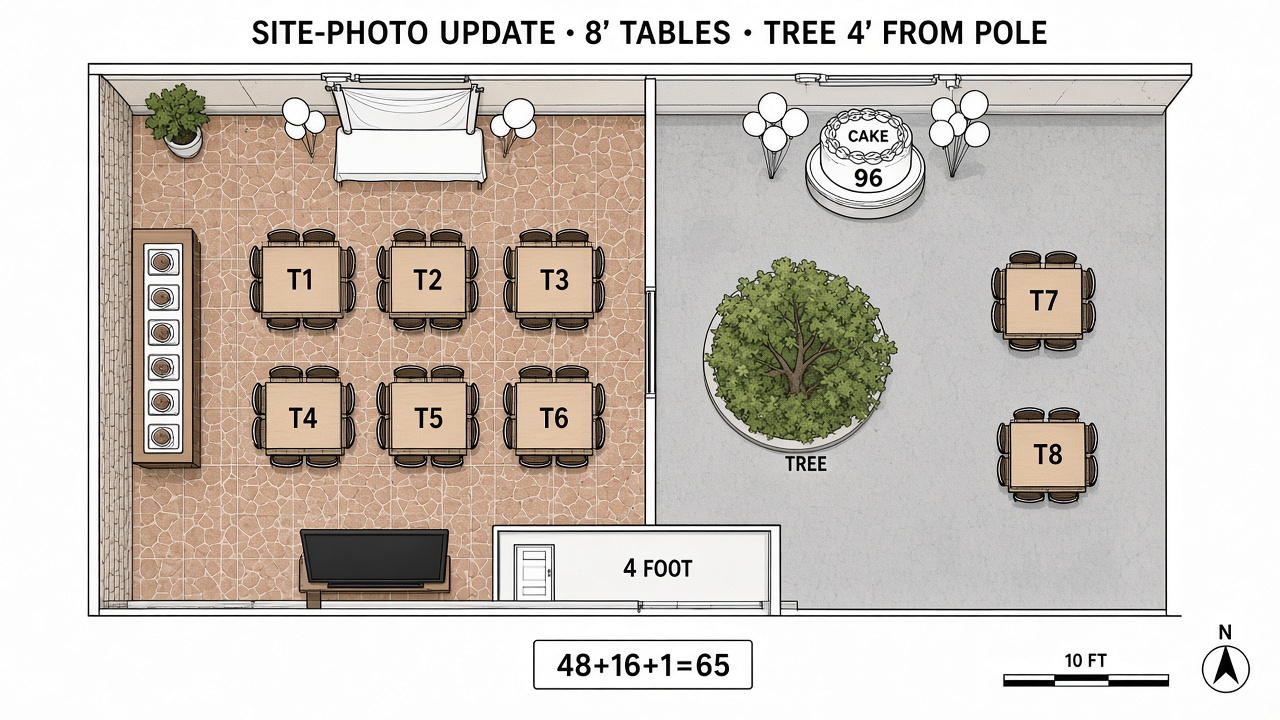
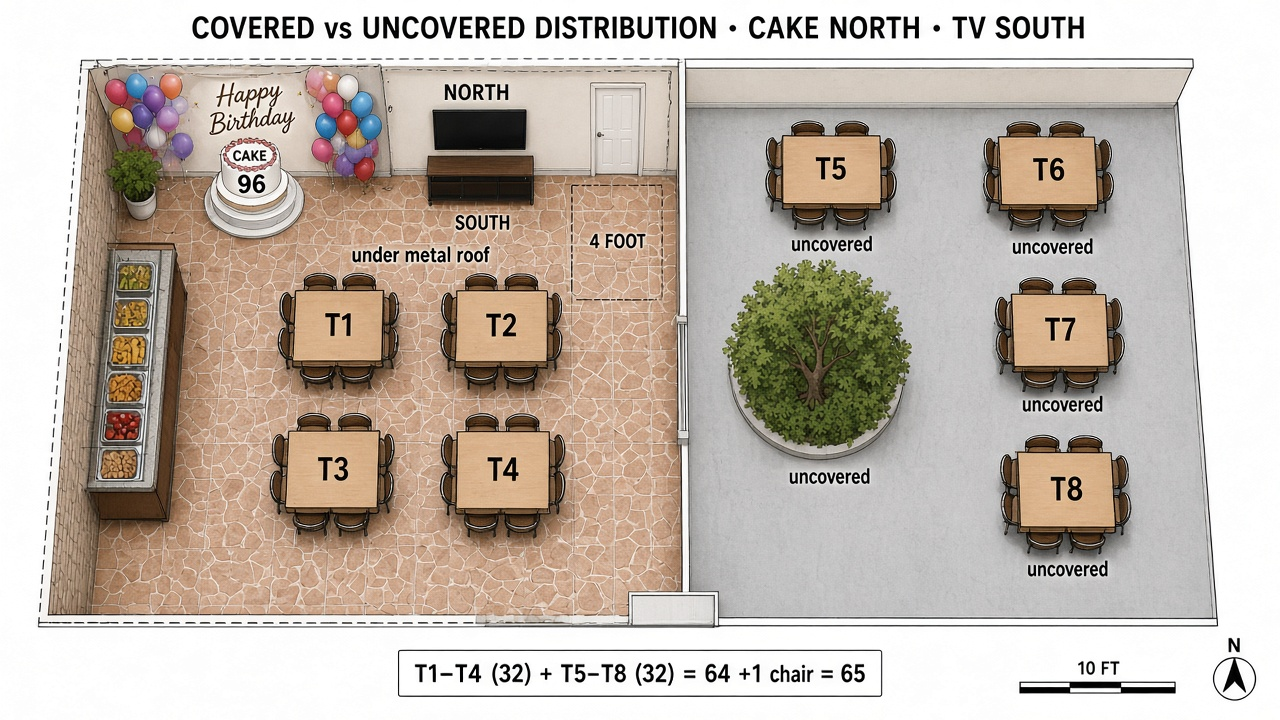
Distribute tables under roof and on gray for mobility
Keep brown seating fully under the metal roof with cake at
north and TV/bath at south facing the cake; move half the
8ft tables onto gray around the tree for clearer aisles.

diff --git a/birthday-party-plan/index.html b/birthday-party-plan/index.html
@@ -3,7 +3,7 @@
 <head>
   <meta charset="UTF-8" />
   <meta name="viewport" content="width=device-width, initial-scale=1" />
-  <title>Grandma’s 96th — Updated Site Layout</title>
+  <title>Grandma’s 96th — Covered + Uncovered Tables</title>
   <link rel="preconnect" href="https://fonts.googleapis.com" />
   <link rel="preconnect" href="https://fonts.gstatic.com" crossorigin />
   <link href="https://fonts.googleapis.com/css2?family=Cormorant+Garamond:ital,wght@0,500;0,600;1,500&family=Outfit:wght@300;400;500;600&display=swap" rel="stylesheet" />
@@ -26,7 +26,7 @@
     .eyebrow { font-size: 0.72rem; letter-spacing: 0.16em; text-transform: uppercase; color: var(--sage-deep); font-weight: 500; margin-bottom: 0.4rem; }
     h1 { font-family: "Cormorant Garamond", Georgia, serif; font-weight: 600; font-size: clamp(1.85rem, 3.5vw, 2.5rem); }
     h1 em { font-style: italic; color: var(--sage-deep); font-weight: 500; }
-    .lede { max-width: 46rem; margin-top: 0.65rem; color: var(--muted); font-weight: 300; font-size: 1.02rem; }
+    .lede { max-width: 48rem; margin-top: 0.65rem; color: var(--muted); font-weight: 300; font-size: 1.02rem; }
     .meta { display: flex; flex-wrap: wrap; gap: 0.45rem; margin-top: 1rem; }
     .chip { border: 1px solid var(--line); background: rgba(255,250,243,0.8); padding: 0.3rem 0.65rem; font-size: 0.75rem; }
     .chip strong { color: var(--sage-deep); }
@@ -35,8 +35,7 @@
     .plan-card img { width: 100%; display: block; }
     .caption { padding: 0.75rem 1rem; font-size: 0.82rem; color: var(--muted); border-top: 1px solid var(--line); }
     .grid-2 { display: grid; grid-template-columns: 1fr 1fr; gap: 1.1rem; }
-    .grid-3 { display: grid; grid-template-columns: repeat(3, 1fr); gap: 0.75rem; }
-    @media (max-width: 800px) { .grid-2, .grid-3 { grid-template-columns: 1fr; } }
+    @media (max-width: 800px) { .grid-2 { grid-template-columns: 1fr; } }
     section.panel { background: rgba(255,250,243,0.78); border: 1px solid var(--line); padding: 1.15rem 1.25rem; }
     section.panel h2 { font-family: "Cormorant Garamond", Georgia, serif; font-size: 1.35rem; margin-bottom: 0.45rem; }
     section.panel li { color: var(--muted); font-size: 0.9rem; }
@@ -48,71 +47,56 @@
 </head>
 <body>
   <header>
-    <p class="eyebrow">Updated from your new site photos</p>
-    <h1>Reconfigured layout for <em>65</em></h1>
+    <p class="eyebrow">Cake north · TV south · tables under roof + on gray</p>
+    <h1>Distributed seating for <em>mobility</em></h1>
     <p class="lede">
-      Pole on the roof edge, tree ~<strong>4 ft right</strong> on gray (outside roof),
-      <strong>8′ rectangular</strong> family tables, décor and buffet reset to match the real patio.
+      Brown tables stay <strong>under the metal roof</strong>. Cake/backdrop at the
+      <strong>north</strong> roof end; TV (facing the cake) and bathroom at the <strong>south</strong>.
+      Half the tables move to <strong>uncovered gray</strong> so aisles stay open.
     </p>
     <div class="meta">
-      <span class="chip"><strong>Tree</strong> outside roof</span>
-      <span class="chip"><strong>8×</strong> 8′ tables</span>
-      <span class="chip"><strong>65</strong> seats</span>
-      <span class="chip"><strong>8-tray</strong> buffet</span>
+      <span class="chip"><strong>North</strong> cake</span>
+      <span class="chip"><strong>South</strong> TV → cake</span>
+      <span class="chip"><strong>32</strong> covered · <strong>32</strong> uncovered</span>
+      <span class="chip"><strong>65</strong> total</span>
     </div>
   </header>
 
   <main>
     <div class="plan-card">
-      <img src="./assets/patio-floor-plan-65.png" alt="Updated floor plan from site photos" />
-      <p class="caption">Floor plan — brown under roof · pole · 4 ft · tree on gray · T1–T6 + T7–T8 = 65 with +1 chair.</p>
+      <img src="./assets/patio-floor-plan-65.png" alt="Floor plan with covered and uncovered table distribution" />
+      <p class="caption">T1–T4 under roof on brown · T5–T8 on gray · cake north · TV south facing cake · tree 4 ft right of pole.</p>
     </div>
 
     <div class="plan-card">
-      <img src="./assets/patio-party-spatial-render.png" alt="Updated spatial render with décor and rectangular tables" />
-      <p class="caption">Wide render — décor on cake wall, buffet on stone wall, banquets under roof, tree past the pole on gray.</p>
-    </div>
-
-    <div class="grid-3">
-      <div class="plan-card">
-        <img src="./assets/site-refs/59EEDD33-D820-4243-8DCC-A39ADBFC1634_L0_001.jpg" alt="Site ref pole and tree" />
-        <p class="caption">Site: pole at roof edge, tree outside.</p>
-      </div>
-      <div class="plan-card">
-        <img src="./assets/site-refs/8F697071-3158-463E-AD93-7001DEA665C4_L0_001.jpg" alt="Site ref tree on gray" />
-        <p class="caption">Site: tree on gray, ~4 ft from pole.</p>
-      </div>
-      <div class="plan-card">
-        <img src="./assets/site-refs/67D3B48D-831D-4287-89EB-038CD1A93551_L0_001.jpg" alt="Site ref covered patio" />
-        <p class="caption">Site: covered brown patio volume.</p>
-      </div>
+      <img src="./assets/patio-party-spatial-render.png" alt="Render with tables under roof and on gray" />
+      <p class="caption">Covered banquets under the metal roof; gray courtyard seating past the pole and tree.</p>
     </div>
 
     <div class="grid-2">
       <section class="panel">
-        <h2>What was reconfigured</h2>
+        <h2>Under the roof (brown)</h2>
         <ul>
-          <li>Landmarks locked from your new photos</li>
-          <li>Rectangular 8′ tables for the long covered strip</li>
-          <li>Décor + buffet reset on cake wall and stone wall</li>
-          <li>Gray courtyard seating clear of the tree</li>
+          <li>T1–T4 only — all fully under metal roof</li>
+          <li>Wide aisle north↔south for cake photos + bath access</li>
+          <li>Buffet on stone wall</li>
+          <li>32 seats</li>
         </ul>
-        <a class="btn" href="./SETUP.md">Setup checklist →</a>
       </section>
       <section class="panel">
-        <h2>Seat count</h2>
+        <h2>Uncovered (gray)</h2>
         <ul>
-          <li>T1–T6 on brown → <strong>48</strong></li>
-          <li>T7–T8 on gray → <strong>16</strong></li>
-          <li>+1 chair → <strong>65</strong></li>
-          <li>Bathroom 4′ clear at TV wall</li>
+          <li>T5–T8 spread around the fixed tree</li>
+          <li>Improves mobility vs packing six tables under roof</li>
+          <li>32 seats + 1 extra chair elsewhere = 65</li>
         </ul>
+        <a class="btn" href="./SETUP.md">Setup checklist →</a>
       </section>
     </div>
   </main>
 
   <footer>
-    Measure the pole-to-tree gap and brown width on site before final rentals.
+    Confirm north = cake wall and south = TV/bath on site before placing tables.
   </footer>
 </body>
 </html>

diff --git a/birthday-party-plan/README.md b/birthday-party-plan/README.md
@@ -1,35 +1,29 @@
-# Grandma’s 96th — Updated from site photos
+# Grandma’s 96th — Covered + uncovered distribution
 
-Layout rebuilt from your new patio photos (pole, tree, brown/gray, walls).
+## Roof axis (brown only)
+| End | What’s there |
+|-----|----------------|
+| **NORTH** (under metal roof) | Cake + backdrop + photo clear |
+| **SOUTH** (under metal roof) | TV facing north toward cake · bathroom beside TV · 4′ clear |
 
-## Fixed landmarks
-| Landmark | Position |
-|----------|----------|
-| **Support pole** | On the roof edge (brown / gray line) |
-| **Tree** | Gray only, **outside roof**, ~**4 ft right** of the pole |
-| **Brown tiles** | Under the corrugated roof (stone/brick wall side) |
-| **Gray tiles** | Open courtyard past the pole (full area shown) |
-| **Cake wall** | Backdrop + cake (photo clear) |
-| **TV wall** | Opposite cake; TV faces cake; bathroom beside TV (4′ clear) |
+All **brown-tile tables sit fully under the metal roof**.
 
-## Tables (reconfigured)
-**8′ × 30″** rectangular banquet tables · 8 seats each · family seating (no honor table)
+## Table distribution (mobility)
+**8′ × 30″** rectangles · 8 seats · family seating
 
-| Zone | Tables | Seats |
-|------|--------|------:|
-| Brown under roof | T1–T6 (2 rows × 3) | 48 |
-| Gray (clear of tree) | T7–T8 | 16 |
-| Extra chair | — | 1 |
-| **Total** | **8** | **65** |
+| Zone | Tables | Seats | Why |
+|------|--------|------:|-----|
+| **Covered brown** | T1–T4 (2×2, wide aisles) | 32 | Room for buffet + cake↔TV aisle |
+| **Uncovered gray** | T5–T8 around fixed tree | 32 | Spread load; easier circulation |
+| Extra chair | — | 1 | |
+| **Total** | **8** | **65** | |
 
-## Décor
-- Cake wall: Boho Spring Garden backdrop + balloon arch + cake `96`
-- Buffet: 8 trays along the stone/brick wall
-- Linens: cream / wildflower on dining + buffet
+## Landmarks
+- Pole on roof edge · tree on gray ~**4 ft right** of pole (outside roof)  
+- 8-tray buffet on stone/brick wall (under roof)  
+- Gray courtyard correct and fully used for seating  
 
 ## Files
-- [Floor plan](./assets/patio-floor-plan-65.png)
-- [Render](./assets/patio-party-spatial-render.png)
-- [Setup checklist](./SETUP.md)
-- [Browser package](./index.html)
-- [Site photo refs](./assets/site-refs/)
+- [Floor plan](./assets/patio-floor-plan-65.png)  
+- [Render](./assets/patio-party-spatial-render.png)  
+- [Setup](./SETUP.md) · [Browser](./index.html)  

diff --git a/birthday-party-plan/SETUP.md b/birthday-party-plan/SETUP.md
@@ -1,29 +1,27 @@
 # Setup checklist — Grandma’s 96th (65 guests)
 
-Updated from latest site photos.
+## Ends of the metal roof
+- [ ] **North:** cake + backdrop (photo clear)
+- [ ] **South:** TV facing the cake · bathroom door clear (4′)
 
-## Clear before setup
-- [ ] Clear sofas / misc furniture from brown floor
-- [ ] Clear cake-wall clutter for backdrop
-- [ ] Do **not** move the tree (~**4 ft right of pole**, outside roof)
-- [ ] Keep bathroom (beside TV) with **4′ clear**
+## Clear
+- [ ] Brown floor under roof clear of sofas
+- [ ] Tree stays ~4 ft right of pole on gray (outside roof)
 
-## Rent / buy
-| Item | Qty | Notes |
-|------|-----|--------|
-| **8′ × 30″ banquet tables** | **8** | T1–T8 · 8 seats each |
-| Chairs | **65** | 64 + 1 extra |
-| Buffet run | ~16′ | **8 trays** on stone/brick wall |
-| Cake table | 1×4–6′ | At backdrop |
-| Linens | Dining + buffet + cake | Cream / wildflower |
-| Backdrop + balloon arch | 1 | Boho Spring Garden (sage / blush / cream) |
+## Rent
+| Item | Qty |
+|------|-----|
+| 8′ × 30″ banquet tables | **8** (T1–T8) |
+| Chairs | **65** |
+| Buffet ~16′ / 8 trays | 1 run on stone wall |
+| Cake table + backdrop kit | 1 |
 
-## Place in order
-1. Cake wall décor + photo clear  
-2. TV wall 4′ clear / bathroom path  
-3. Buffet on stone wall  
-4. **T1–T6** on brown (2 rows × 3), long axis cake↔TV  
-5. **T7–T8** on gray, clear of tree (pole → 4 ft → tree)
+## Place
+1. North décor (cake wall under roof)  
+2. South TV/bath 4′ clear  
+3. Buffet on stone wall under roof  
+4. **T1–T4 under roof** on brown (2×2, leave center aisle)  
+5. **T5–T8 on gray** uncovered, clear of tree  
 
 ## Math
-**T1–T6 (48) + T7–T8 (16) = 64 · +1 = 65**
+**Covered 32 + uncovered 32 + 1 = 65**
